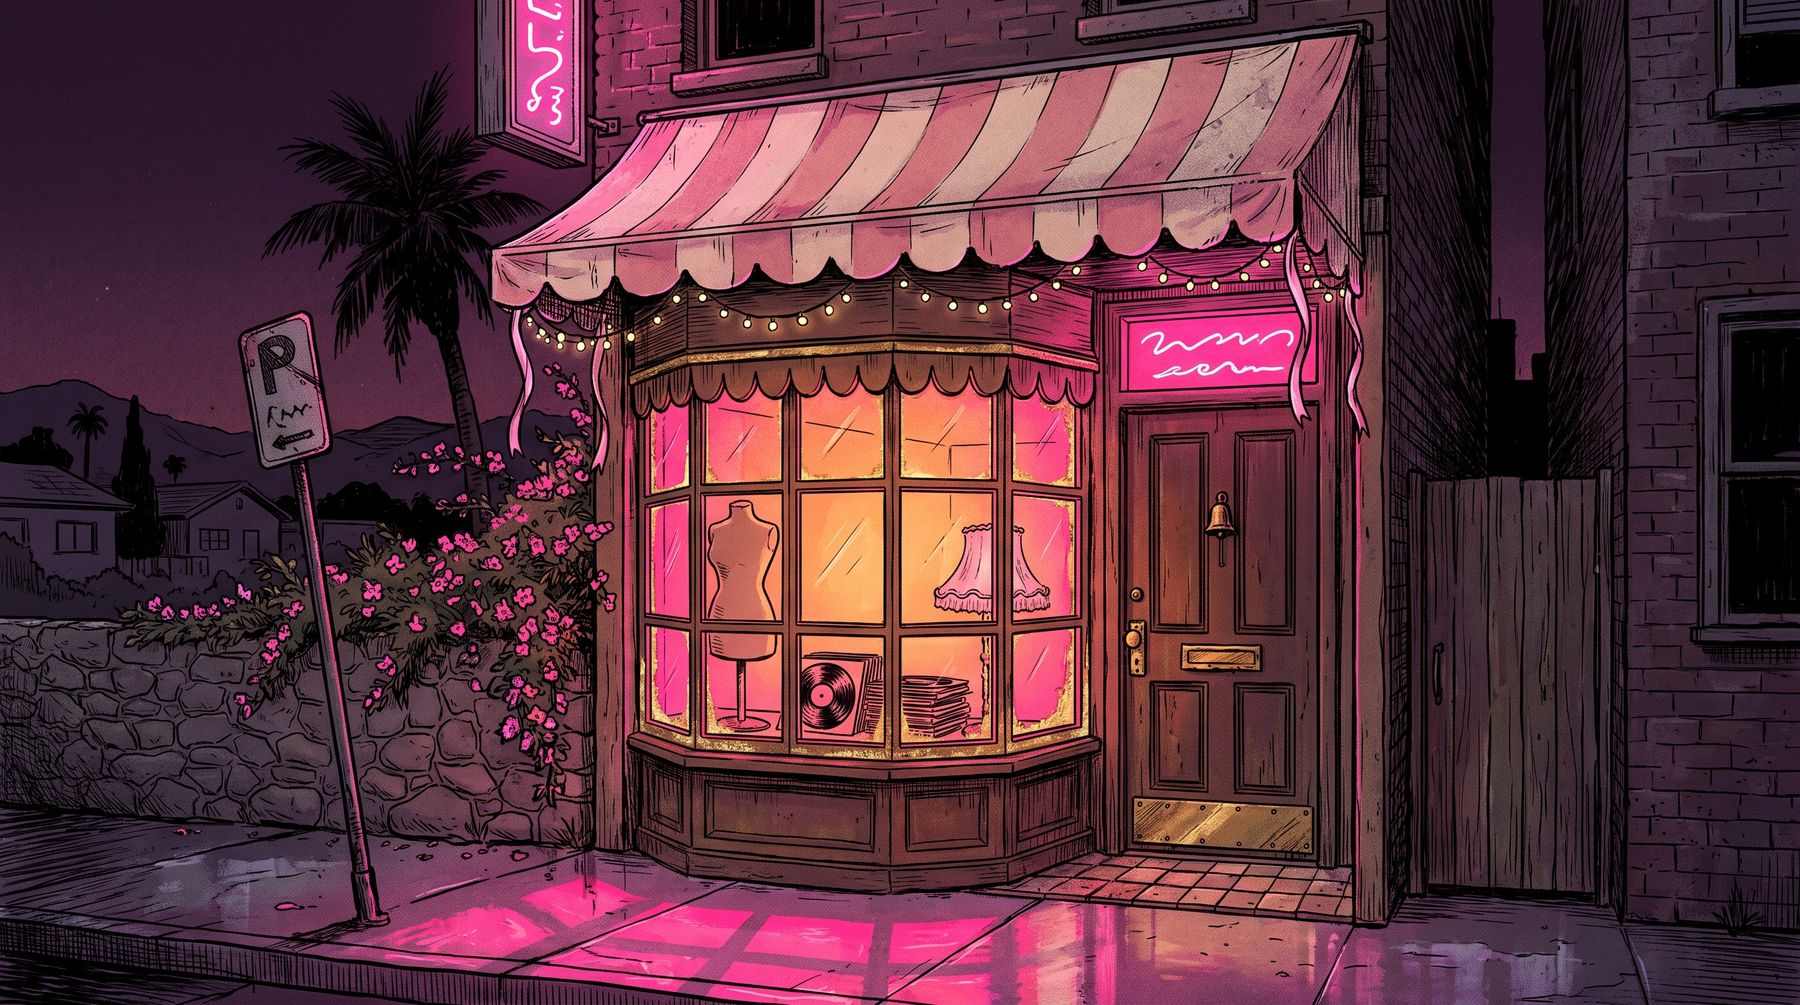
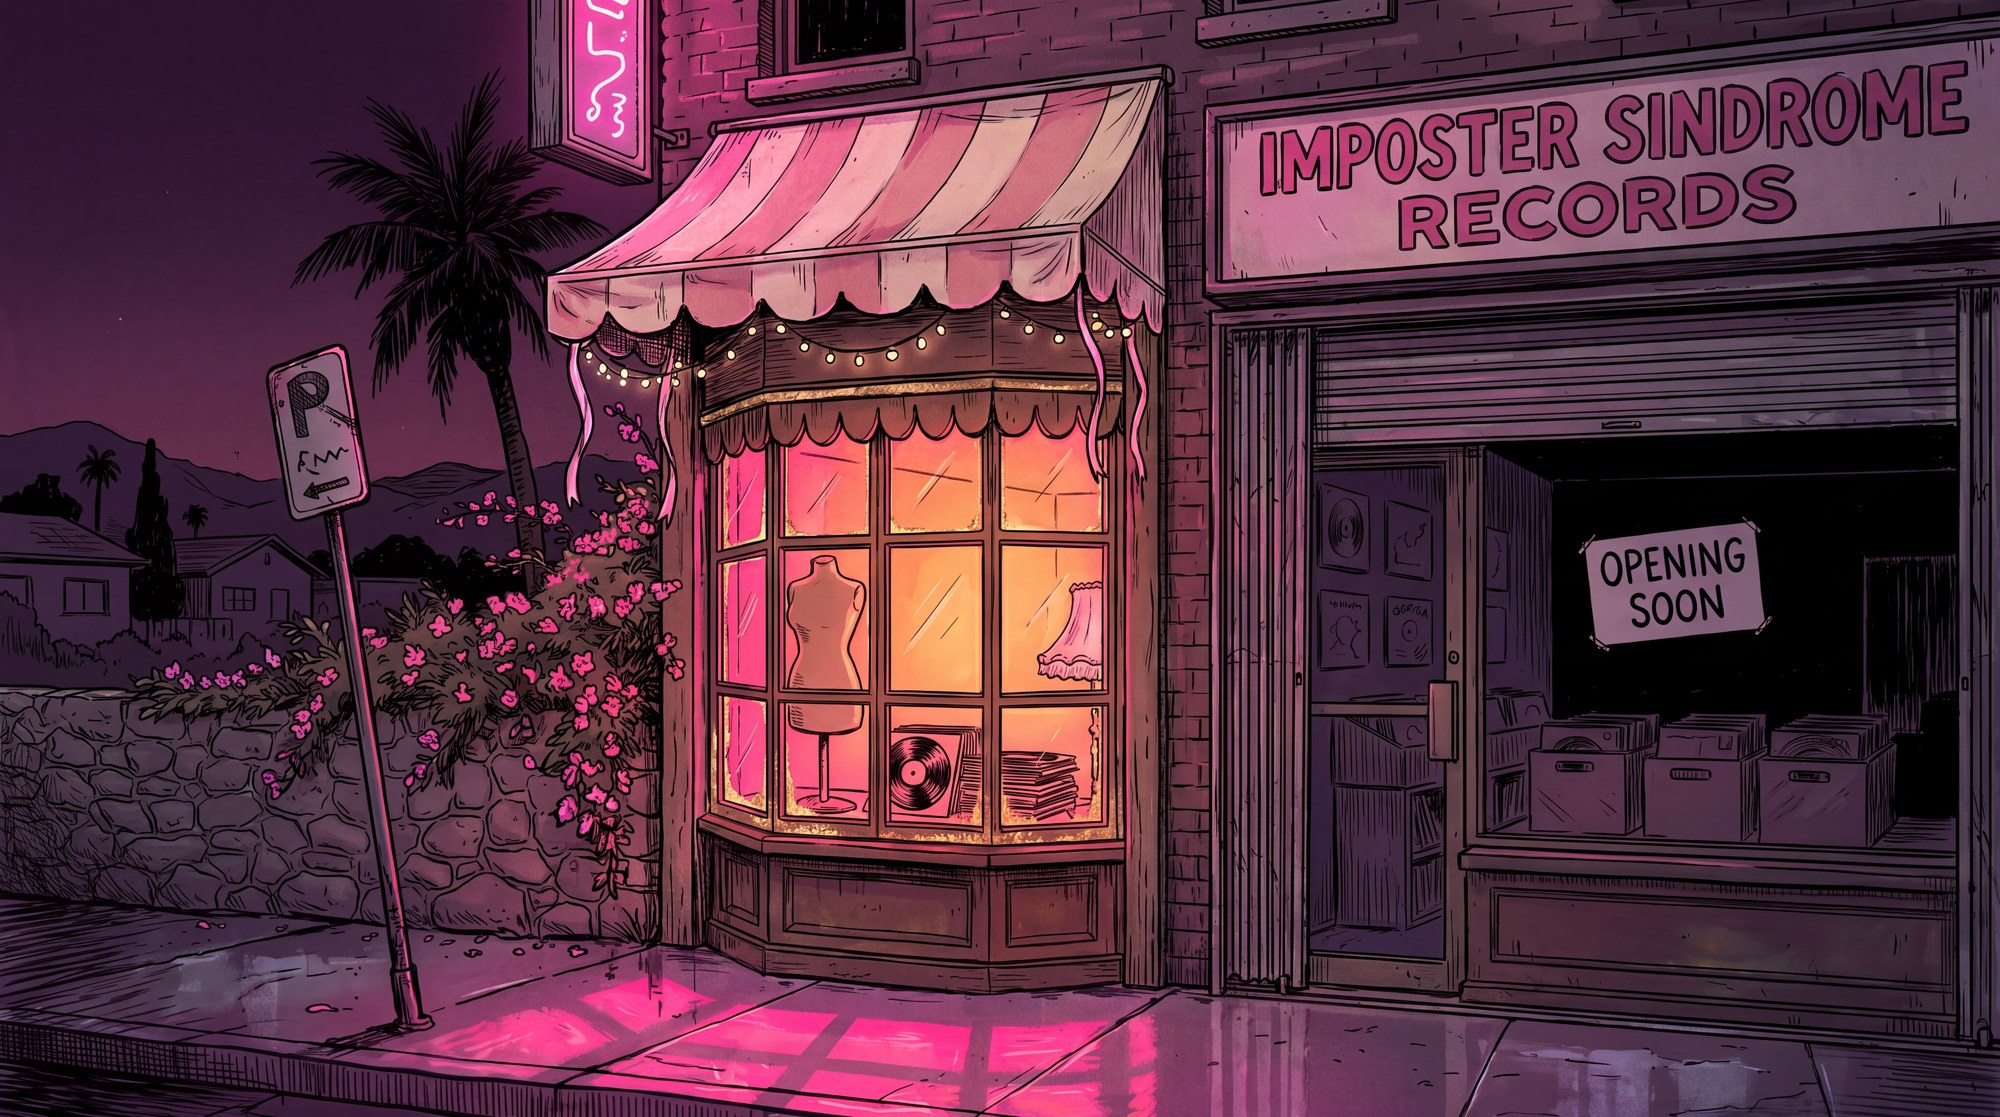
Boutique: add locked "Imposter Sindrome Records" next door (opening soon)
Regenerated the shop exterior (landscape + portrait) so the WeHo street now shows
the lit boutique next to a second storefront — Imposter Sindrome Records — clearly
closed: gate half-down, dim window with an OPENING SOON sign, vinyl crates in the
dark. Added a locked hotspot over the record store on the street view with a
"🔒 opening soon" pill; tapping it toasts "Imposter Sindrome Records — opening
soon" and goes nowhere (locked, no route). Verified desktop + mobile.

diff --git a/src/pages/Boutique.tsx b/src/pages/Boutique.tsx
@@ -234,6 +234,22 @@ const Boutique: React.FC = () => {
 
         {/* ---------- street: the door ---------- */}
         {view === "street" && (
+          <>
+          {/* locked record store next door — Imposter Sindrome Records, opening soon */}
+          <button
+            onClick={() => say("Imposter Sindrome Records — opening soon ♥")}
+            aria-label="Imposter Sindrome Records — opening soon"
+            className="absolute group z-20"
+            style={isP ? { left: "50%", top: "11%", width: "50%", height: "46%" } : { left: "60%", top: "7%", width: "40%", height: "70%" }}
+          >
+            <span className="absolute inset-[7%] rounded-2xl border-2 border-transparent opacity-0 group-hover:opacity-100 group-focus-visible:opacity-100 transition-opacity duration-300"
+                  style={{ borderColor: "#b07bff", boxShadow: "0 0 34px #b07bff55, inset 0 0 40px #b07bff22" }} />
+            <span className="absolute left-1/2 -translate-x-1/2 bottom-[10%] flex items-center gap-1.5 opacity-90 group-hover:opacity-100 transition-opacity pointer-events-none
+                             font-mono text-[9px] tracking-[0.24em] uppercase text-[#e6dcf5] bg-black/55 rounded-full px-3 py-1.5 backdrop-blur-sm"
+                  style={{ textShadow: "0 2px 8px rgba(6,3,12,.95)" }}>
+              🔒 opening soon
+            </span>
+          </button>
           <motion.div className="absolute inset-0 flex flex-col items-center justify-end pb-[9vh] px-6 text-center"
             initial={{ opacity: 0, y: 14 }} animate={{ opacity: 1, y: 0 }} transition={{ delay: 0.35, duration: 0.7 }}>
             <div className="absolute inset-x-0 bottom-0 h-[62%] pointer-events-none"
@@ -256,6 +272,7 @@ const Boutique: React.FC = () => {
             </button>
             </div>
           </motion.div>
+          </>
         )}
 
         {/* ---------- room: pick a corner ---------- */}
